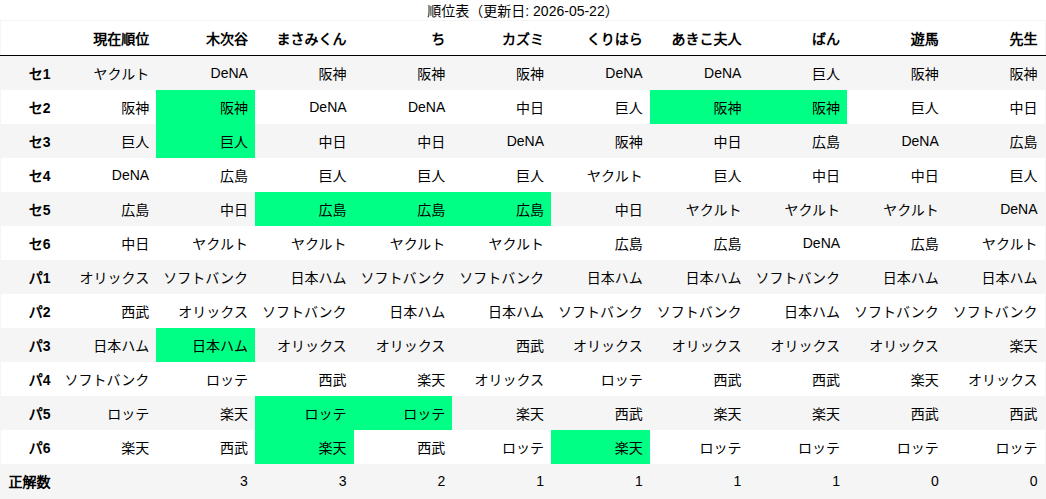
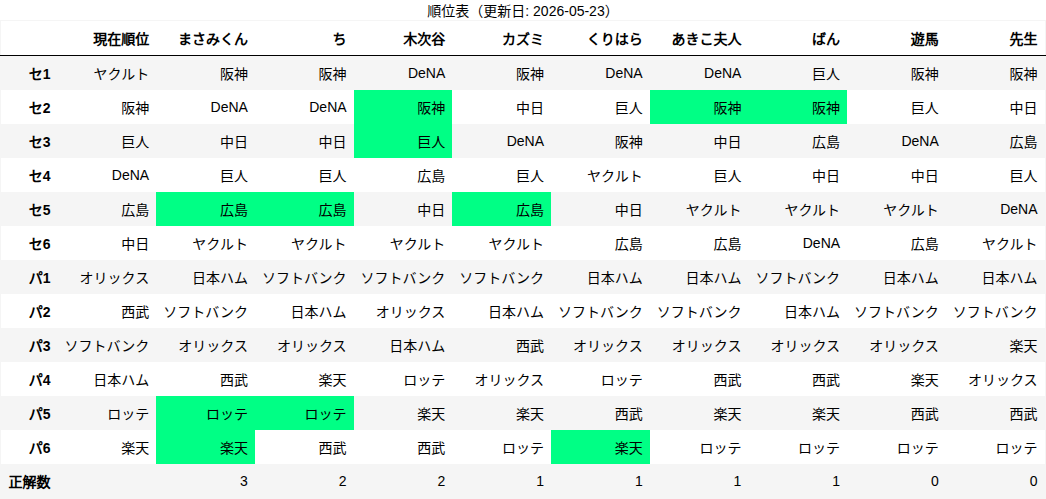
Daily ranking update

diff --git a/README.md b/README.md
@@ -1,6 +1,6 @@
 # 📊 プロ野球順位予想
 
-最終更新日: 2026-05-22
+最終更新日: 2026-05-23
 
 ## 最新順位表
 ![最新順位表](ranking_table.jpeg)
